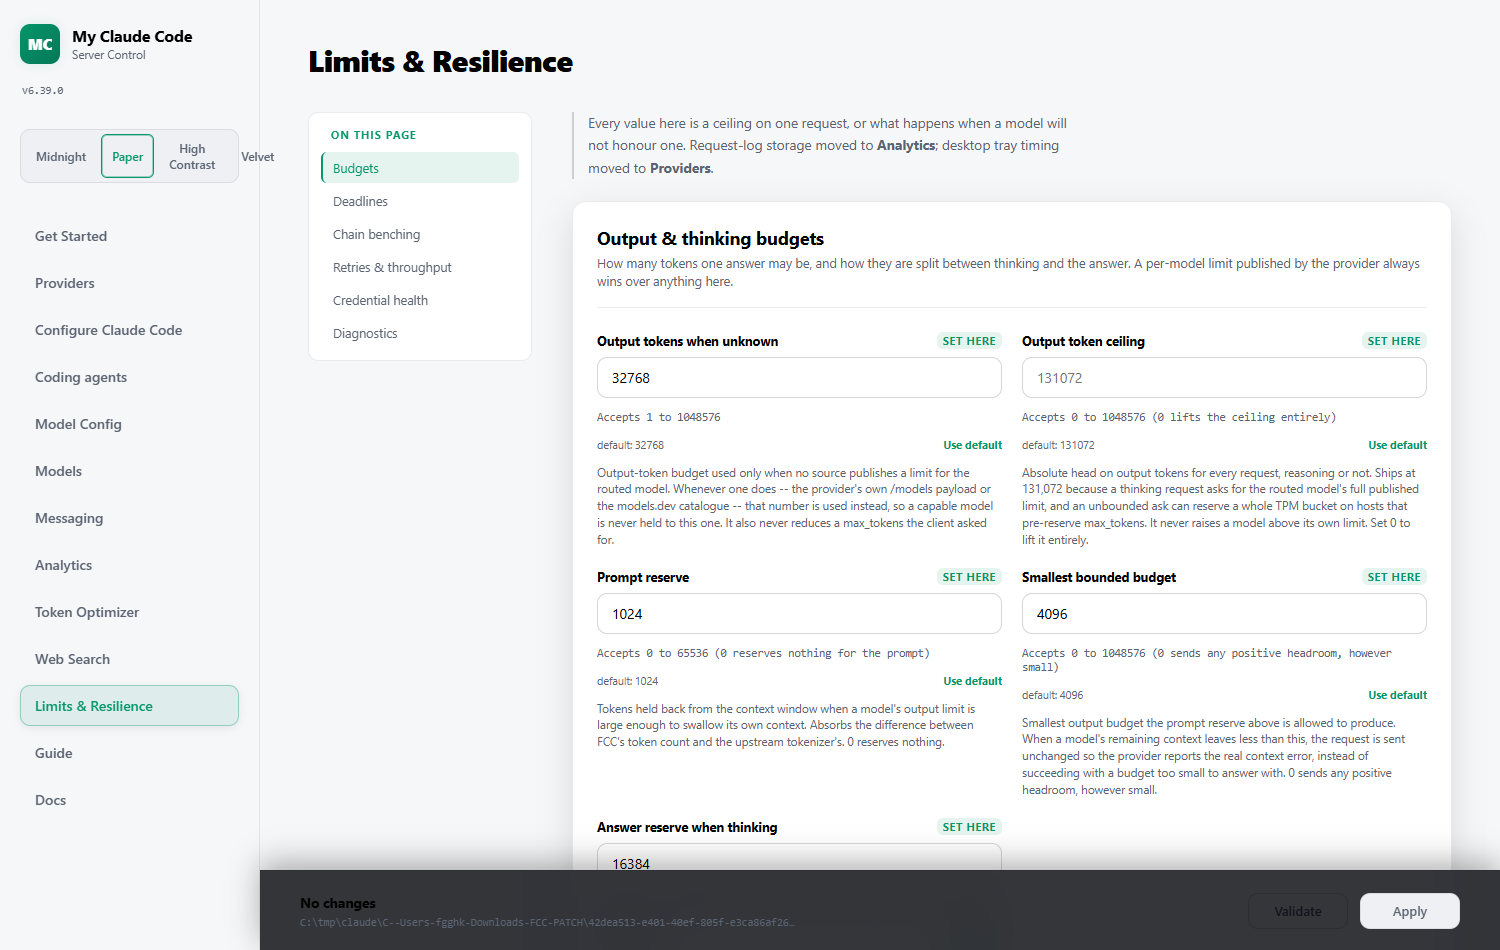
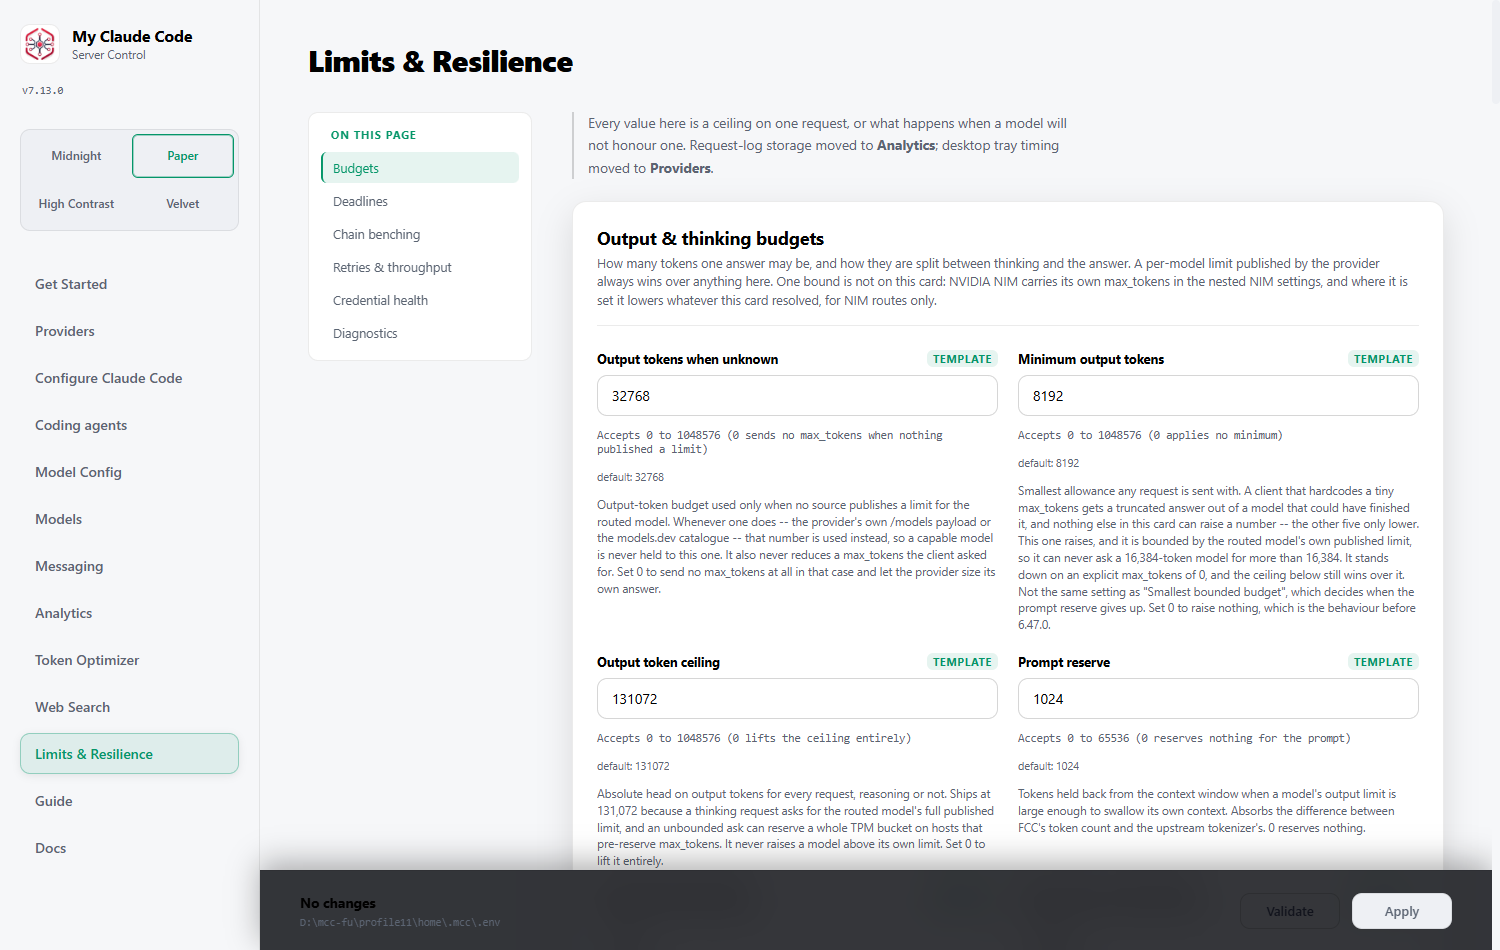
docs: refresh the four screenshots a credential-less capture can honestly take
## What was wrong

All 29 `assets/admin-*.png` (each mirrored under
`src/my_claude_code/api/admin_static/img/`) predate `31fe71df` (6.72.1,
2026-09-11), which shipped the real product mark. Every one still shows the old
`MC` gradient badge and a `v6.39.x` sidebar, and the Analytics page in
particular has gained a `reasoning_tokens` column (7.9.0) and p50/p95 TTFT
cards (7.10.0) since its shot was taken.

## What this PR does

Four of them are re-captured, against a scratch `HOME` on a second disk with a
copy of the request log, `PORT=8299`, Paper theme, headless Chrome over CDP,
and no credentials of any kind:

- **`admin-analytics.png`** — the Analytics stat cards, over 335,819 stored
  requests instead of 266,835, and now carrying "Turns with reasoning" and the
  p50/p95 TTFT cards this PR series added.
- **`admin-limits.png`**, **`admin-messaging.png`**, **`admin-websearch.png`** —
  three pages whose content is settings and provider *names*, so an
  unconfigured instance renders them exactly as a configured one does.

Both copies of each file change together, per
`docs/RELEASE-CHECKLIST.md:242-244`. Every one of the four was opened and
looked at before it was committed.

## What this PR deliberately does NOT do, and why

**The other twenty-five were not re-captured.** The reason is the checklist's
own first step: every one of them illustrates a *configured* MCC, and step 1 of
the capture recipe builds that from the operator's own `.env`, key by key. An
[…]

diff --git a/docs/RELEASE-CHECKLIST.md b/docs/RELEASE-CHECKLIST.md
@@ -225,6 +225,35 @@ learned fact, a priced request, a `billed/est` ratio — is taken against a
 scratch config seeded with a fake provider, never against the live install.
 Check the footer path in the shot: it must be a scratch `.env`.
 
+**Re-captured in the 7.13.0 pass (2026-09-14).** Four shots, against a scratch
+`HOME` on a second disk with a copy of the request log, `PORT=8299`, Paper
+theme, no credentials of any kind:
+
+- `admin-analytics.png` — the Analytics stat cards, now including the
+  `reasoning_tokens` column (7.9.0) and the p50/p95 TTFT cards (7.10.0), over
+  335,819 stored requests.
+- `admin-limits.png`, `admin-messaging.png`, `admin-websearch.png` — three
+  pages whose content is settings and provider *names*, so a scratch instance
+  renders them exactly as a configured one does.
+
+**The other twenty-five `admin-*.png` were NOT re-captured, and the reason is
+the recipe's own first step.** Every one of them illustrates a *configured*
+MCC: the provider grid says "13 configured", the Models page lists hundreds of
+models, `admin-credential-health.png` needs per-key health, and
+`admin-models-learned.png` needs a learned fact. Step 1 above builds that from
+the operator's own `.env`, key by key. An automated pass that has no
+credentials — and must not read the operator's — produces a provider grid
+reading "0 configured" and a Models page with one row, which is a worse
+illustration than the stale one it would replace. Re-capture those by hand,
+following step 1, the next time you do a docs pass with your own keys in
+front of you.
+
+Two more, for the record: `admin-requests.png` **can** be captured from a
+seeded log, but the request table's Key column renders a truncated real key
+fingerprint (`sk-1...rnp1`), so it is a hand capture against a scratch config
+with faked keys, never an automated one against a copied log. And the request
+log this pass used ends on 2026-09-12, so any shot of it dates itself.
+
 **The one exception: `assets/admin-update-banner.png`.** The update banner only
 renders when a newer release actually exists, which an offline scratch instance
 running the version under development cannot produce. It is not reachable from
